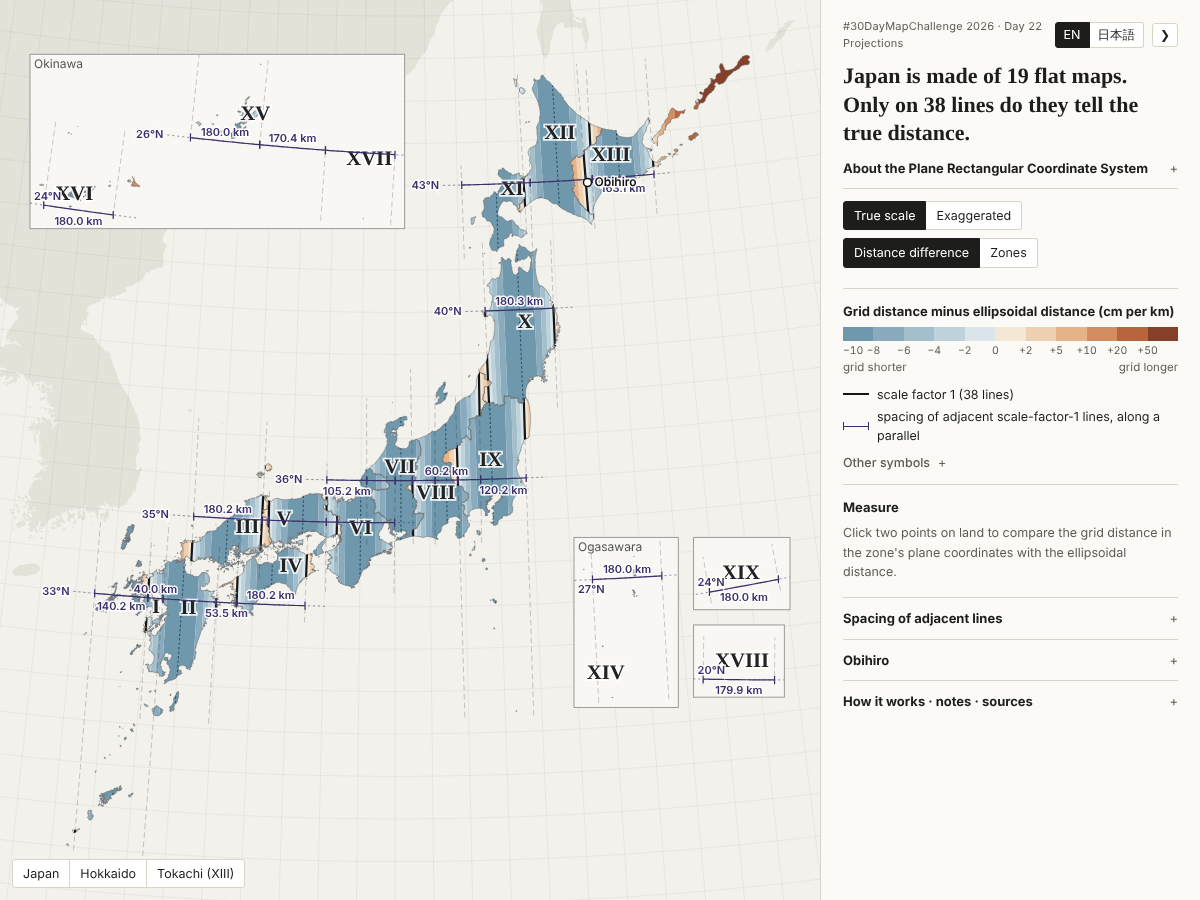
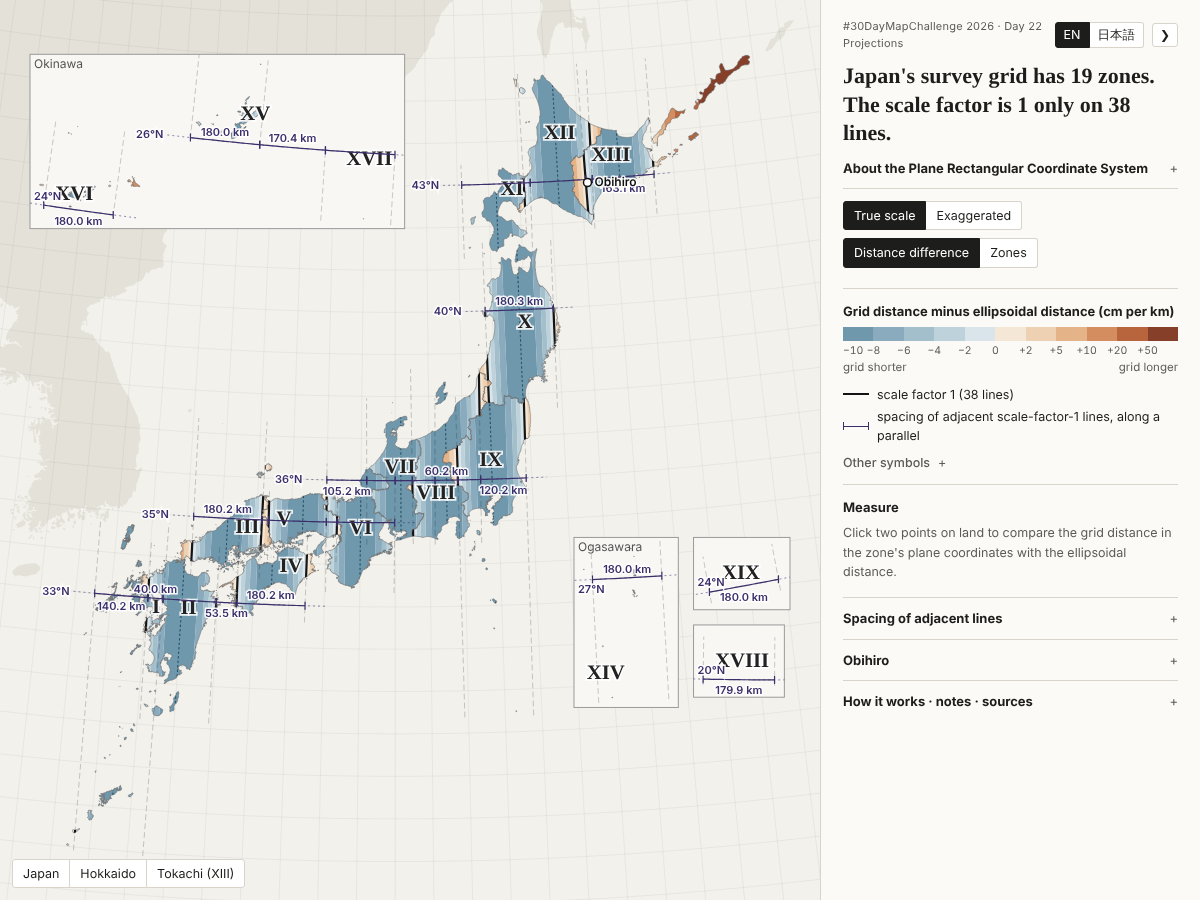
Replace the headline with a plain statement

Changed region(s): [[0.7092, 0.0622, 0.9558, 0.1556]]

diff --git a/web/i18n.js b/web/i18n.js
@@ -1,7 +1,7 @@
 // Text for both languages. {name} placeholders are filled from data/facts.json and app state.
 window.I18N = {
   en: {
-    title: "Japan is made of 19 flat maps. Only on 38 lines do they tell the true distance.",
+    title: "Japan's survey grid has 19 zones. The scale factor is 1 only on 38 lines.",
     lead: "Surveys and public survey drawings in Japan use the <b>Plane Rectangular Coordinate System</b>. The country is divided into 19 zones (I–XIX). Each zone has its own origin and is projected with the Transverse Mercator projection. The scale factor on the meridian through the origin is <b>0.9999</b>, so the scale factor is 1 on two lines about <b>{k1km} km</b> east and west of it: <b>38 lines</b> in total. Elsewhere, grid distances are slightly shorter or longer than distances on the ellipsoid.",
     introTitle: "About the Plane Rectangular Coordinate System",
     exagHow: "How the exaggeration works",
@@ -80,7 +80,7 @@ window.I18N = {
       "</ul>",
   },
   ja: {
-    title: "日本は19枚の平らな地図でできている。本当の距離を示すのは、38本の線の上だけ。",
+    title: "日本の平面直角座標系は19の系に分かれ、縮尺係数が1になるのは38本の線の上だけ。",
     lead: "日本の測量や公共測量の図面には<b>平面直角座標系</b>が使われています。全国を19の系（第I系〜第XIX系）に分け、系ごとに原点を置いて横メルカトル図法で投影します。原点を通る子午線上の縮尺係数を<b>0.9999</b>としているため、縮尺係数が1になるのは原点から東西に約<b>{k1km} km</b>の2本の線上で、全国で<b>38本</b>です。それ以外の場所では、座標上の距離は楕円体上の距離よりわずかに短いか長くなります。",
     introTitle: "平面直角座標系について",
     exagHow: "誇張のしかた",

diff --git a/web/index.html b/web/index.html
@@ -31,9 +31,9 @@
       <button id="panel-hide" class="icon-btn" data-i18n-title="hidePanel" title="Hide panel" aria-label="Hide panel">&#x276F;</button>
     </div>
 
-    <h1 data-i18n="title">Japan is made of 19 flat maps. Only on 38 lines do they tell the true distance.</h1>
+    <h1 data-i18n="title">Japan's survey grid has 19 zones. The scale factor is 1 only on 38 lines.</h1>
     <details class="fold" id="intro">
-      <summary data-i18n="introTitle">What are the 19 flat maps?</summary>
+      <summary data-i18n="introTitle">About the Plane Rectangular Coordinate System</summary>
       <p class="lead" data-i18n-html="lead"></p>
     </details>
 
@@ -57,11 +57,11 @@
     </section>
 
     <section id="legend">
-      <h2 data-i18n="legendTitle">Distance on the flat map vs. true distance</h2>
+      <h2 data-i18n="legendTitle">Grid distance minus ellipsoidal distance (cm per km)</h2>
       <div id="legend-bar"></div>
       <div class="legend-ends"><span data-i18n="shorter">shorter</span><span data-i18n="longer">longer</span></div>
       <div class="legend-keys">
-        <div><i class="key k1"></i><span data-i18n="keyK1">true distance (scale factor 1) — 38 lines</span></div>
+        <div><i class="key k1"></i><span data-i18n="keyK1">scale factor 1 (38 lines)</span></div>
         <div><i class="key gp"></i><span data-i18n="keyGap">east–west distance between neighbouring lines</span></div>
       </div>
       <details class="fold small-fold">

diff --git a/web/app.js b/web/app.js
@@ -89,7 +89,7 @@
     for (let i = 0; i < g.r.length; i += 2) { g.r[i] += dx; g.r[i + 1] += dy; }
   }
 
-  // displacement of the zone's flat map relative to true distance/direction from its origin,
+  // displacement of the zone's grid position relative to ellipsoidal distance/azimuth from its origin,
   // as a vector in base-map world units
   function frameVectors(z) {
     if (z.fv) return z.fv;

diff --git a/README.md b/README.md
@@ -1,10 +1,10 @@
-# Japan is made of 19 flat maps
+# Japan Plane Rectangular CS: 19 zones, 38 lines
 
 **#30DayMapChallenge 2026 · Day 22 Projections**
 
-> Japan is made of 19 flat maps. Only on 38 lines do they tell the true distance.
+> Japan's survey grid has 19 zones. The scale factor is 1 only on 38 lines.
 >
-> 日本は19枚の平らな地図でできている。本当の距離を示すのは、38本の線の上だけ。
+> 日本の平面直角座標系は19の系に分かれ、縮尺係数が1になるのは38本の線の上だけ。
 
 公開URL: https://shinyanakashima.github.io/30daymapchallenge-2026day22-plane-rectangular/
 
